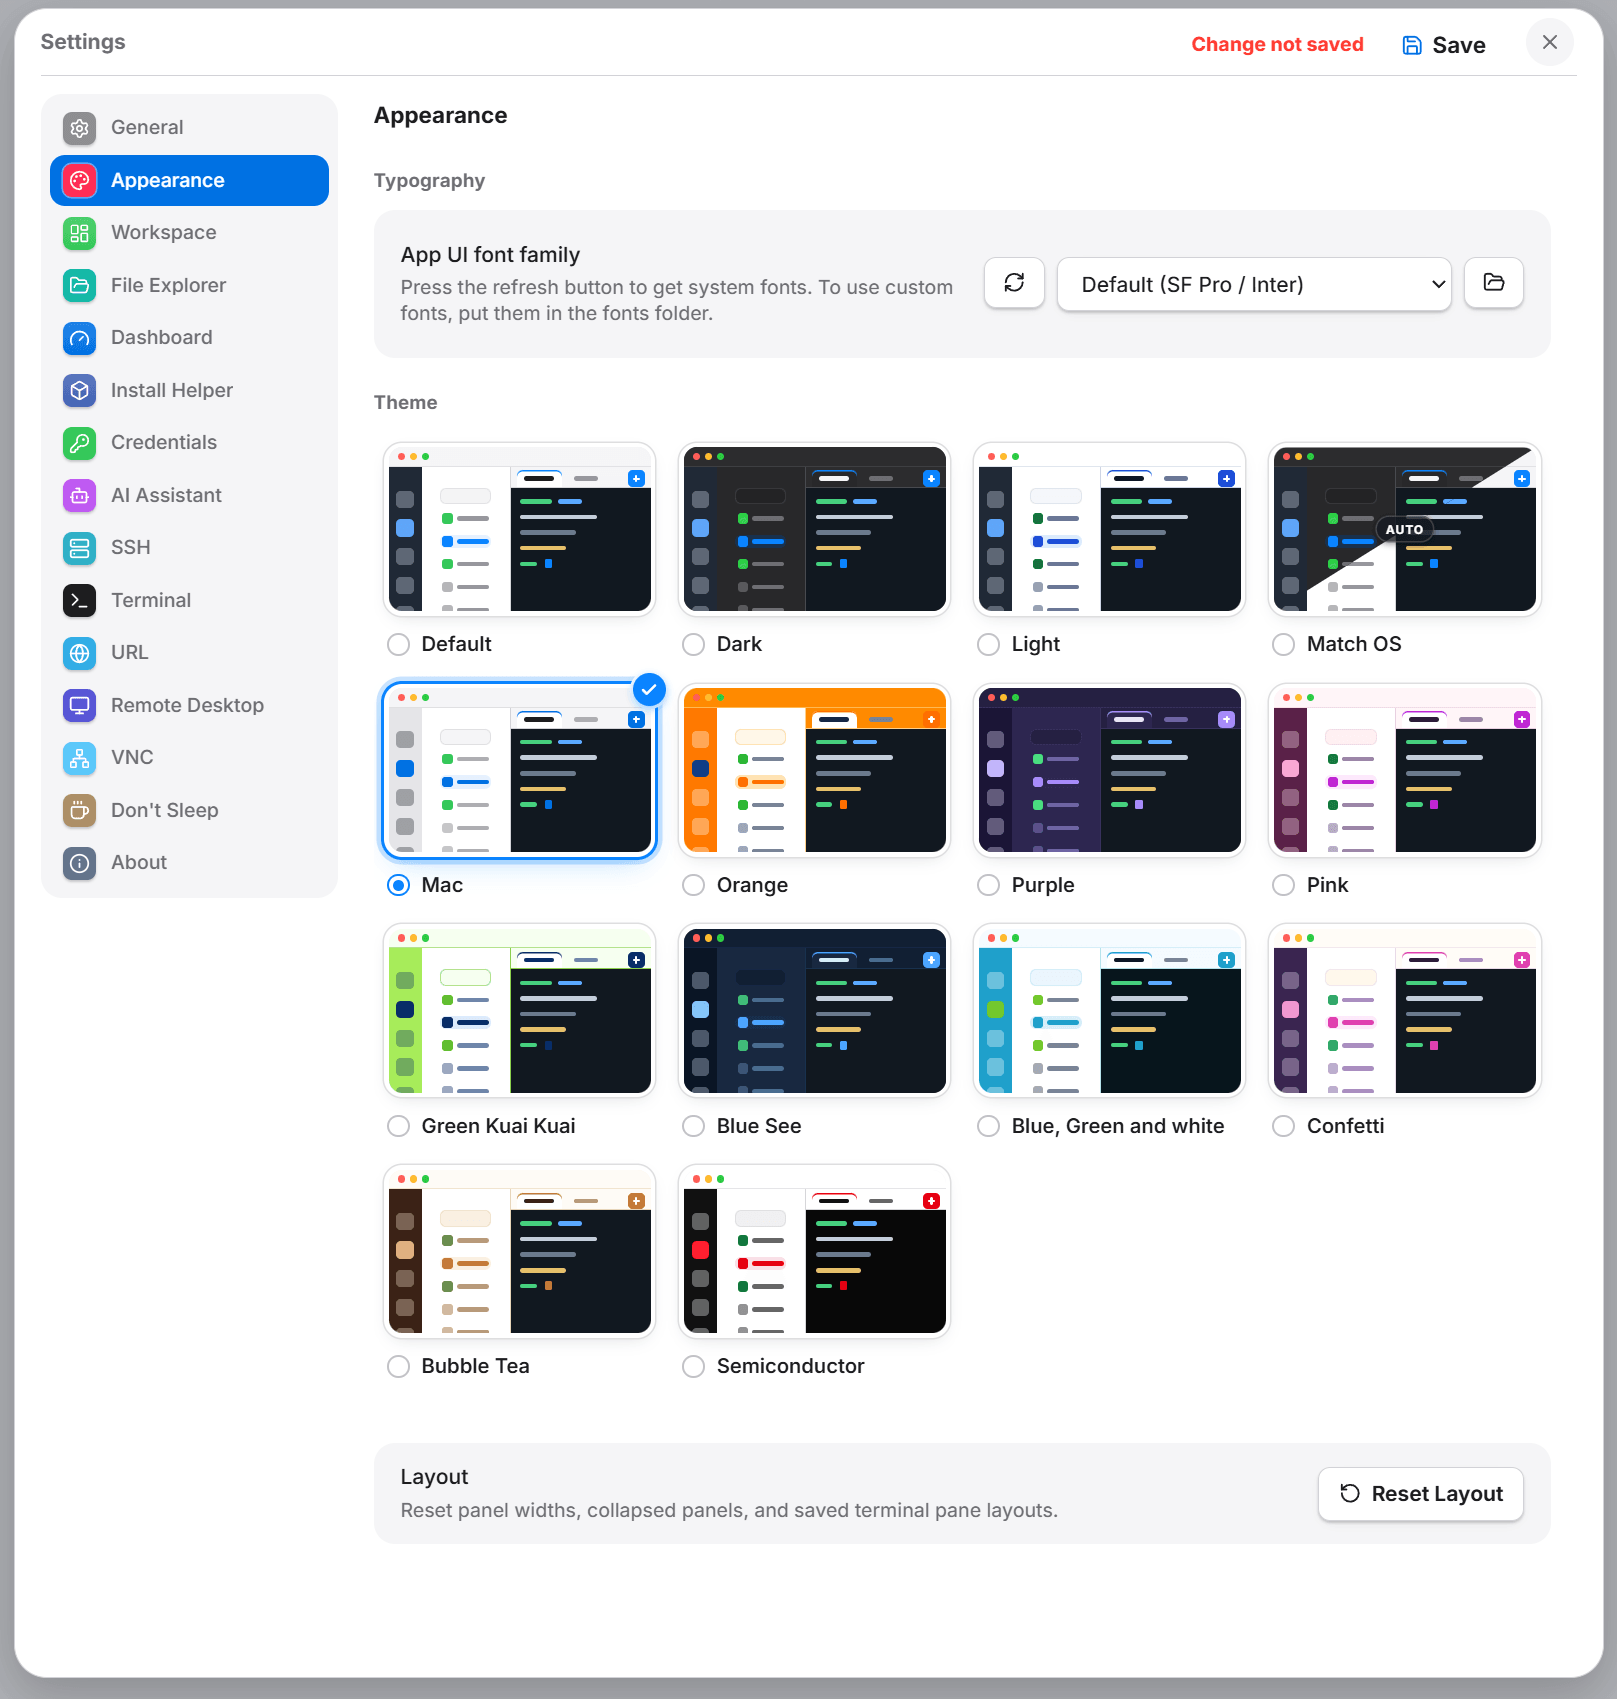
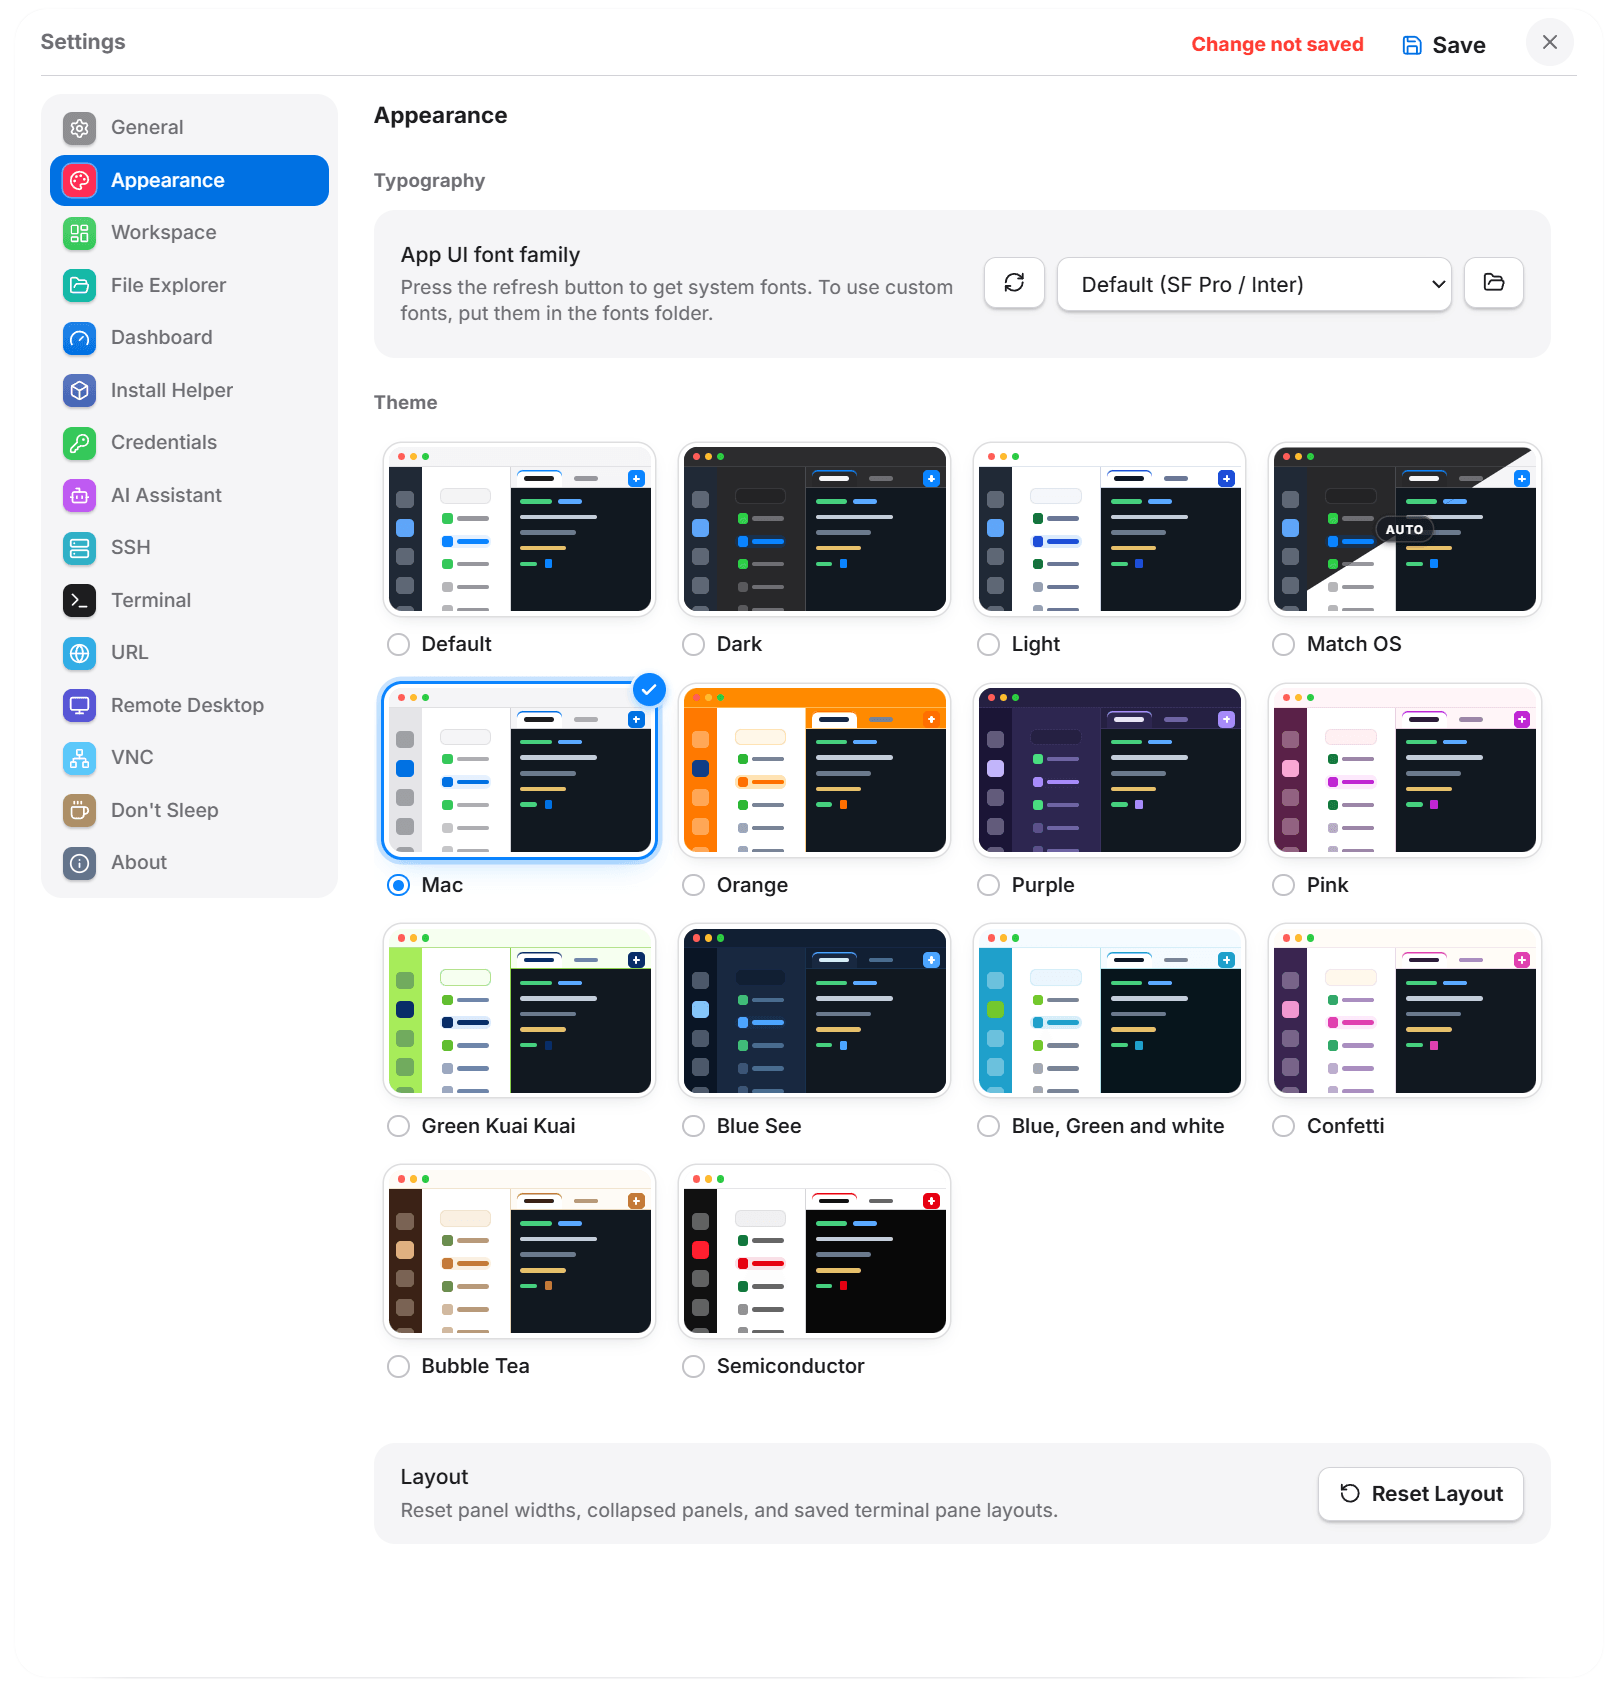
refactor: remove background live preview hint and update dynamic background styles

Changed region(s): [[0.0, 0.0, 1.0, 1.0]]

diff --git a/src/modules/dashboard/registry/dynamicBackgrounds.tsx b/src/modules/dashboard/registry/dynamicBackgrounds.tsx
@@ -1,4 +1,4 @@
-import { useEffect, useRef, type ComponentType } from "react";
+import { useEffect, useRef, type ComponentType, type CSSProperties } from "react";
 import { FujiBg } from "./fujiBackground";
 import {
   DashboardAnimationGate,
@@ -3782,11 +3782,12 @@ const DYNAMIC_BACKGROUND_COMPONENTS = {
 } satisfies Record<string, ComponentType>;
 
 export type DynamicBackgroundId = keyof typeof DYNAMIC_BACKGROUND_COMPONENTS;
+type DynamicBackgroundMood = "calm" | "spacey" | "warm" | "geeky" | "erratic";
 
 export const DYNAMIC_BACKGROUNDS: readonly {
   id: DynamicBackgroundId;
   labelKey: string;
-  mood: "calm" | "spacey" | "warm" | "geeky" | "erratic";
+  mood: DynamicBackgroundMood;
 }[] = [
   { id: "fuji", labelKey: "dashboard.dynamicBackgrounds.fuji", mood: "calm" },
   { id: "aurora", labelKey: "dashboard.dynamicBackgrounds.aurora", mood: "calm" },
@@ -3815,6 +3816,129 @@ export const DYNAMIC_BACKGROUNDS: readonly {
   { id: "confetti", labelKey: "dashboard.dynamicBackgrounds.confetti", mood: "erratic" },
   { id: "particleCursor", labelKey: "dashboard.dynamicBackgrounds.particleCursor", mood: "erratic" },
 ];
+
+const STATIC_PREVIEW_STYLES: Partial<Record<DynamicBackgroundId, CSSProperties>> = {
+  fuji: {
+    background:
+      "radial-gradient(circle at 72% 30%, rgba(255,230,210,0.95) 0 9%, transparent 10%), linear-gradient(135deg, transparent 49%, rgba(245,245,250,0.95) 50% 64%, transparent 65%), linear-gradient(180deg, #1f3155 0%, #7b4f76 58%, #1b1d32 100%)",
+  },
+  aurora: {
+    background:
+      "radial-gradient(80% 70% at 28% 22%, rgba(95,255,190,0.55), transparent 58%), radial-gradient(70% 80% at 78% 35%, rgba(145,100,255,0.45), transparent 62%), linear-gradient(180deg, #081626, #102338)",
+  },
+  clouds: {
+    background:
+      "radial-gradient(36% 25% at 28% 52%, rgba(255,255,255,0.78), transparent 62%), radial-gradient(44% 28% at 62% 42%, rgba(255,255,255,0.62), transparent 65%), linear-gradient(180deg, #8ec5f4, #d9ecff)",
+  },
+  ocean: {
+    background:
+      "linear-gradient(175deg, rgba(255,255,255,0.20) 0 2%, transparent 3% 13%, rgba(255,255,255,0.14) 14% 16%, transparent 17%), linear-gradient(180deg, #0a4d73, #04314b 55%, #061827)",
+  },
+  raindrops: {
+    background:
+      "repeating-linear-gradient(105deg, transparent 0 14px, rgba(190,225,255,0.38) 15px 17px, transparent 18px 30px), linear-gradient(180deg, #15283b, #071321)",
+  },
+  rainywindow: {
+    background:
+      "radial-gradient(circle at 28% 38%, rgba(255,210,120,0.70), transparent 12%), radial-gradient(circle at 74% 26%, rgba(125,200,255,0.55), transparent 15%), linear-gradient(180deg, rgba(210,225,240,0.22), rgba(40,55,70,0.45)), #142337",
+    filter: "blur(0.2px)",
+  },
+  frostedWindow: {
+    background:
+      "radial-gradient(circle at 32% 34%, rgba(255,255,255,0.55), transparent 20%), radial-gradient(circle at 70% 62%, rgba(130,190,255,0.38), transparent 24%), linear-gradient(135deg, rgba(255,255,255,0.42), rgba(150,170,195,0.22)), #334256",
+  },
+  snow: {
+    background:
+      "radial-gradient(circle at 18% 24%, white 0 1.5px, transparent 2px), radial-gradient(circle at 48% 42%, white 0 1px, transparent 1.5px), radial-gradient(circle at 74% 22%, white 0 1.5px, transparent 2px), linear-gradient(180deg, #243b5a, #e7eef5)",
+  },
+  sakura: {
+    background:
+      "radial-gradient(ellipse at 24% 28%, rgba(255,155,190,0.82), transparent 22%), radial-gradient(ellipse at 72% 42%, rgba(255,190,215,0.68), transparent 24%), linear-gradient(180deg, #ffe9f0, #8ec8da)",
+  },
+  fireflies: {
+    background:
+      "radial-gradient(circle at 25% 36%, rgba(255,245,130,0.95) 0 2px, transparent 12px), radial-gradient(circle at 70% 48%, rgba(180,255,130,0.85) 0 1.5px, transparent 10px), linear-gradient(180deg, #09241b, #07110d)",
+  },
+  bubbles: {
+    background:
+      "radial-gradient(circle at 28% 60%, transparent 0 10%, rgba(210,250,255,0.55) 11% 13%, transparent 14%), radial-gradient(circle at 68% 38%, transparent 0 8%, rgba(210,250,255,0.45) 9% 11%, transparent 12%), linear-gradient(180deg, #6ed4ec, #13759a)",
+  },
+  aquarium: {
+    background:
+      "radial-gradient(ellipse at 35% 55%, rgba(255,170,80,0.8) 0 9%, transparent 10%), radial-gradient(ellipse at 68% 46%, rgba(180,220,255,0.55) 0 13%, transparent 14%), linear-gradient(180deg, #0b6f8f, #063248)",
+  },
+  ricefield: {
+    background:
+      "repeating-linear-gradient(88deg, rgba(115,95,22,0.42) 0 2px, transparent 3px 9px), linear-gradient(180deg, #f2d596 0 44%, #c5aa3b 45% 72%, #5f551d 100%)",
+  },
+  lanterns: {
+    background:
+      "radial-gradient(circle at 36% 60%, rgba(255,155,65,0.95) 0 7%, transparent 16%), radial-gradient(circle at 68% 32%, rgba(255,185,90,0.80) 0 6%, transparent 14%), linear-gradient(180deg, #161337, #4c2741)",
+  },
+  starfield: {
+    background:
+      "radial-gradient(circle at 20% 30%, white 0 1px, transparent 1.5px), radial-gradient(circle at 58% 42%, white 0 1.2px, transparent 2px), radial-gradient(circle at 82% 22%, #ffe7b0 0 1px, transparent 1.5px), linear-gradient(180deg, #071026, #020612)",
+  },
+  nebula: {
+    background:
+      "radial-gradient(70% 60% at 42% 48%, rgba(177,85,255,0.58), transparent 66%), radial-gradient(60% 55% at 68% 38%, rgba(75,185,255,0.35), transparent 62%), linear-gradient(180deg, #08071d, #16103a)",
+  },
+  embers: {
+    background:
+      "radial-gradient(circle at 26% 72%, rgba(255,165,65,0.9) 0 3px, transparent 20px), radial-gradient(circle at 72% 48%, rgba(255,110,45,0.65) 0 2px, transparent 15px), linear-gradient(180deg, #220c06, #070403)",
+  },
+  lava: {
+    background:
+      "radial-gradient(ellipse at 35% 70%, rgba(255,82,24,0.9), transparent 28%), radial-gradient(ellipse at 70% 38%, rgba(255,185,50,0.65), transparent 22%), linear-gradient(180deg, #2a0810, #080305)",
+  },
+  matrix: {
+    background:
+      "repeating-linear-gradient(90deg, rgba(58,255,95,0.24) 0 1px, transparent 2px 12px), repeating-linear-gradient(180deg, transparent 0 12px, rgba(60,255,120,0.18) 13px 15px), #031108",
+  },
+  topo: {
+    background:
+      "repeating-radial-gradient(ellipse at 32% 48%, transparent 0 13px, rgba(130,240,210,0.32) 14px 16px), linear-gradient(160deg, #102822, #061210)",
+  },
+  synthwave: {
+    background:
+      "linear-gradient(0deg, rgba(255,45,180,0.35) 0 2px, transparent 3px 16px), radial-gradient(circle at 50% 32%, rgba(255,105,60,0.85) 0 14%, transparent 15%), linear-gradient(180deg, #1a063d, #090319)",
+  },
+  cyberpunk: {
+    background:
+      "linear-gradient(90deg, rgba(0,245,255,0.65) 0 3px, transparent 4px 70%, rgba(255,40,160,0.65) 71% 74%, transparent 75%), linear-gradient(180deg, #151033, #050712)",
+  },
+  taipei101: {
+    background:
+      "linear-gradient(90deg, transparent 43%, rgba(105,230,210,0.82) 44% 56%, transparent 57%), repeating-linear-gradient(180deg, transparent 0 13px, rgba(255,255,255,0.32) 14px 16px), linear-gradient(180deg, #0d1c35, #15284a)",
+  },
+  thunderstorm: {
+    background:
+      "linear-gradient(115deg, transparent 42%, rgba(255,255,210,0.9) 43% 46%, transparent 47%), repeating-linear-gradient(105deg, transparent 0 18px, rgba(170,210,255,0.38) 19px 21px), linear-gradient(180deg, #11182a, #050812)",
+  },
+  confetti: {
+    background:
+      "radial-gradient(circle at 20% 30%, #ff4d8d 0 3px, transparent 4px), radial-gradient(circle at 58% 45%, #28c7ff 0 3px, transparent 4px), radial-gradient(circle at 78% 68%, #ffd447 0 3px, transparent 4px), linear-gradient(180deg, #fff3f8, #f7fbff)",
+  },
+  particleCursor: {
+    background:
+      "radial-gradient(circle at 52% 50%, rgba(255,90,70,0.95) 0 4%, rgba(255,90,70,0.35) 5% 24%, transparent 25%), repeating-radial-gradient(circle at 52% 50%, rgba(255,160,130,0.25) 0 2px, transparent 3px 10px), #12070b",
+  },
+};
+
+const MOOD_PREVIEW_STYLES: Record<DynamicBackgroundMood, CSSProperties> = {
+  calm: { background: "linear-gradient(160deg, #bedff0, #e9f2ef 56%, #7aa08d)" },
+  spacey: { background: "radial-gradient(circle at 70% 28%, rgba(255,255,255,0.9) 0 2px, transparent 3px), linear-gradient(180deg, #09132b, #020511)" },
+  warm: { background: "radial-gradient(circle at 38% 62%, rgba(255,155,55,0.75), transparent 28%), linear-gradient(180deg, #2a0a07, #090403)" },
+  geeky: { background: "repeating-linear-gradient(90deg, rgba(70,255,160,0.20) 0 1px, transparent 2px 12px), #06120c" },
+  erratic: { background: "radial-gradient(circle at 25% 35%, rgba(255,80,160,0.7), transparent 22%), radial-gradient(circle at 72% 62%, rgba(60,210,255,0.55), transparent 24%), #101124" },
+};
+
+export function dynamicBackgroundStaticPreviewStyle(
+  id: DynamicBackgroundId,
+  mood: DynamicBackgroundMood,
+): CSSProperties {
+  return STATIC_PREVIEW_STYLES[id] ?? MOOD_PREVIEW_STYLES[mood];
+}
 
 export function isDynamicBackgroundId(value: string): value is DynamicBackgroundId {
   return value in DYNAMIC_BACKGROUND_COMPONENTS;

diff --git a/src/modules/dashboard/edit/SharedBackgroundPopover.tsx b/src/modules/dashboard/edit/SharedBackgroundPopover.tsx
@@ -7,6 +7,7 @@ import { BACKGROUND_PRESETS } from "../registry/backgroundPresets";
 import {
   DashboardDynamicBackground,
   DYNAMIC_BACKGROUNDS,
+  dynamicBackgroundStaticPreviewStyle,
   type DynamicBackgroundId,
 } from "../registry/dynamicBackgrounds";
 import { importBackgroundImage } from "../state/persistence";
@@ -316,7 +317,11 @@ function DynamicBackgroundPreviewDialog({
                   {selectedTile ? (
                     <DashboardDynamicBackground id={backgroundOption.id} active />
                   ) : (
-                    <span className="dw-bg-preview-paused" aria-hidden="true" />
+                    <span
+                      className="dw-bg-preview-paused"
+                      style={dynamicBackgroundStaticPreviewStyle(backgroundOption.id, backgroundOption.mood)}
+                      aria-hidden="true"
+                    />
                   )}
                   <span className="dw-bg-preview-check">
                     <DIcon name="check" size={12} />
@@ -327,7 +332,6 @@ function DynamicBackgroundPreviewDialog({
             );
           })}
         </div>
-        <p className="dw-warning-text">{t("dashboard.backgroundLivePreviewHint")}</p>
       </Sheet>
     </DialogShell>
   );

diff --git a/src/modules/dashboard/dashboard.css b/src/modules/dashboard/dashboard.css
@@ -3610,10 +3610,6 @@ button.dashboard-pill-dot:focus-visible {
   inset: 3px;
   overflow: hidden;
   border-radius: 9px;
-  background:
-    linear-gradient(135deg, color-mix(in srgb, var(--accent-soft) 58%, transparent), transparent 56%),
-    radial-gradient(circle at 22% 24%, color-mix(in srgb, var(--accent) 30%, transparent), transparent 28%),
-    linear-gradient(160deg, var(--surface-muted), var(--chrome));
 }
 
 .dw-bg-preview-card:hover .dw-bg-preview-frame {

diff --git a/docs/manual/10-dashboard.md b/docs/manual/10-dashboard.md
@@ -78,7 +78,7 @@ Presets are CSS wrappers that read the Instance's `--w-accent` / `--w-accent-sof
 - `dashboard.backgroundModePreset` — colour/gradient presets `dashboard.backgroundPresets.*` (mist, sand, sage, sky, blush, lavender, slate, graphite, midnight, pine, aubergine, ember, harbor, moss, wine, steel, plus gradients gDawn / gFog / gMeadow / gDusk / gLinen / gHorizon / gPetal / gTwilight / gMidnight / gHarbor / gEmber / gOrchid / gForest / gEclipse / gCobalt / gNocturne).
 - `dashboard.backgroundModeImage` — choose image via `dashboard.backgroundChooseImage`. Remove with `dashboard.backgroundRemoveImage`. File filter `dashboard.backgroundImageFilter`. Hint `dashboard.backgroundImageHint`. Fit options under `dashboard.backgroundFitLabel`: `fill`, `fit`, `stretch`, `tile`, `center`. Dim slider: `dashboard.backgroundDimLabel`.
 - `dashboard.backgroundModeMedia` — video / animated source. Filter `dashboard.backgroundMediaFilter`. Hint `dashboard.backgroundMediaHint`. Source attribution `dashboard.backgroundMediaSourcePrefix` + link `dashboard.backgroundMediaSourceLink`.
-- `dashboard.backgroundModeDynamic` (`dashboard.backgroundDynamicHint`) — app-owned animated backgrounds: `fuji`, `aurora`, `clouds`, `ocean`, `raindrops`, `rainyWindow`, `frostedWindow`, `snow`, `sakura`, `fireflies`, `bubbles`, `aquarium`, `ricefield`, `lanterns`, `starfield`, `nebula`, `embers`, `lava`, `matrix`, `topo`, `synthwave`, `cyberpunk`, `taipei101`, `thunderstorm`, `confetti`, `particleCursor` (keys under `dashboard.dynamicBackgrounds.*`). The Dynamic tab also exposes `dashboard.backgroundLivePreview`, which opens `dashboard.backgroundLivePreviewTitle`; that preview dialog stages the selected background until `common.ok`, and only the selected tile animates (`dashboard.backgroundLivePreviewHint`) while the rest stay paused.
+- `dashboard.backgroundModeDynamic` (`dashboard.backgroundDynamicHint`) — app-owned animated backgrounds: `fuji`, `aurora`, `clouds`, `ocean`, `raindrops`, `rainyWindow`, `frostedWindow`, `snow`, `sakura`, `fireflies`, `bubbles`, `aquarium`, `ricefield`, `lanterns`, `starfield`, `nebula`, `embers`, `lava`, `matrix`, `topo`, `synthwave`, `cyberpunk`, `taipei101`, `thunderstorm`, `confetti`, `particleCursor` (keys under `dashboard.dynamicBackgrounds.*`). The Dynamic tab also exposes `dashboard.backgroundLivePreview`, which opens `dashboard.backgroundLivePreviewTitle`; that preview dialog stages the selected background until `common.ok`, animates only the selected tile, and uses code-defined static previews for the rest.
 
 Dashboard Views and terminal Connection backgrounds use the same shared background picker datasource. New preset, media-mode, fit, dim, or dynamic background options must be added through the shared picker/registry path so both `dashboard.changeBackground` and `terminal.background` show the same list.
 